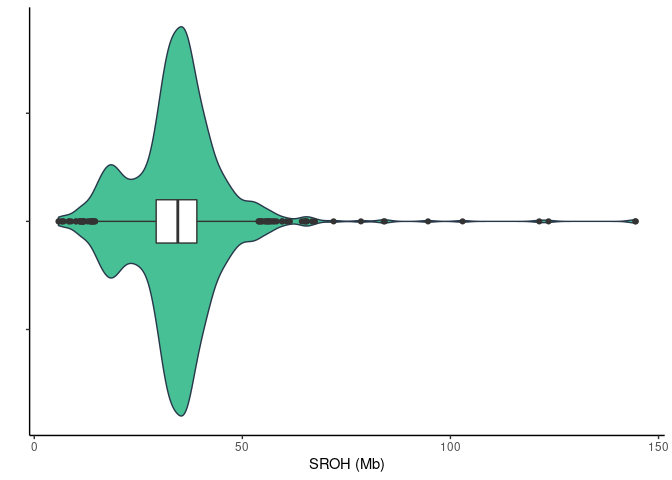
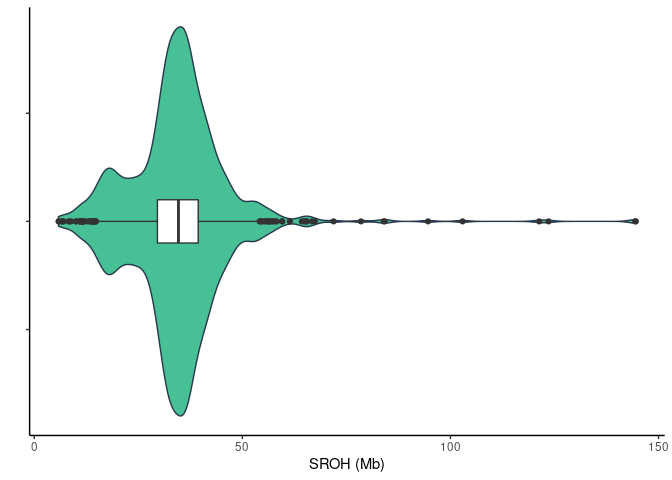
added ROH coverage

diff --git a/roh/roh.md b/roh/roh.md
@@ -1,10 +1,10 @@
-Runs of homozygosity on 1082 individuals
+Runs of homozygosity on 943 individuals
 ================
 
 | stat                |  min |  median |      mean |        max |
 |:--------------------|-----:|--------:|----------:|-----------:|
-| Length              | 83.0 | 54628.0 | 124447.48 | 63912719.0 |
-| Number\_of\_markers |  2.0 |   100.0 |    166.01 |    45797.0 |
+| Length              | 83.0 | 54619.0 | 124596.53 | 63912719.0 |
+| Number\_of\_markers |  2.0 |   100.0 |    166.18 |    45797.0 |
 | Quality             |  0.6 |    51.1 |     49.86 |       98.7 |
 
 ROHs quality histogram
@@ -22,10 +22,10 @@ ROHs quality histogram
 |     | mean\_SROH\_Mb  |
 |:----|:----------------|
 |     | Min. : 5.821    |
-|     | 1st Qu.: 29.297 |
-|     | Median : 34.491 |
-|     | Mean : 34.332   |
-|     | 3rd Qu.: 39.067 |
+|     | 1st Qu.: 29.593 |
+|     | Median : 34.647 |
+|     | Mean : 34.556   |
+|     | 3rd Qu.: 39.401 |
 |     | Max. :144.543   |
 
 2.  Sum of ROH length per range
@@ -39,10 +39,10 @@ ROHs quality histogram
 |     | &gt;10Mb       | 2-5Mb          |
 |:----|:---------------|:---------------|
 |     | Min. : 10.00   | Min. : 5.815   |
-|     | 1st Qu.: 15.89 | 1st Qu.:15.387 |
-|     | Median : 16.72 | Median :18.615 |
-|     | Mean : 17.78   | Mean :18.859   |
-|     | 3rd Qu.: 17.17 | 3rd Qu.:21.595 |
+|     | 1st Qu.: 15.89 | 1st Qu.:15.537 |
+|     | Median : 16.76 | Median :18.727 |
+|     | Mean : 17.77   | Mean :19.026   |
+|     | 3rd Qu.: 17.17 | 3rd Qu.:21.975 |
 |     | Max. :104.20   | Max. :42.199   |
 
 3.  Relationship between number of ROHs and total length of genome
@@ -50,19 +50,23 @@ ROHs quality histogram
 
 ![](roh_files/figure-gfm/cummulative-1.png)<!-- -->
 
-4.  % of ROhs per category in sample
+4.  ROH genome coverage with runs &gt; 2Mb
+
+![](roh_files/figure-gfm/genome_coverage-1.png)<!-- -->
+
+5.  % of ROhs per category in sample
 
 ![](roh_files/figure-gfm/roh_count-1.png)<!-- -->
 
-5.  ROH length sum
+6.  ROH length sum
 
 ![](roh_files/figure-gfm/roh_sum-1.png)<!-- -->
 
-6.  Number of ROHs per sample
+7.  Number of ROHs per sample
 
 ![](roh_files/figure-gfm/roh_count_per_sample-1.png)<!-- -->
 
-7.  Average ROHs per sample
+8.  Average ROHs per sample
 
 <!-- -->
 
@@ -70,6 +74,6 @@ ROHs quality histogram
 
 ![](roh_files/figure-gfm/average_roh_per_sample-1.png)<!-- -->
 
-8.  Cosanguinity in population
+9.  Cosanguinity in population
 
 ![](roh_files/figure-gfm/unnamed-chunk-4-1.png)<!-- -->
